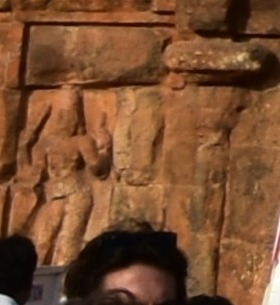
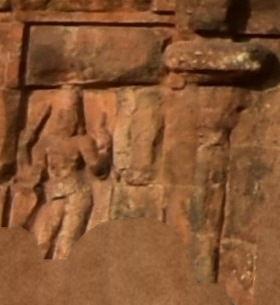
Paint out the visitors in three west-face panel photographs
Visitors, their clothes and a signboard stood in front of the wall in
the photograph the north bay's base panels are cropped from. In
west-panel-N1, N2 and N3 they are now painted over with a plain stone
colour taken from the stone just above them, with a little noise for
grain. No carving is drawn in. About 20% of N1 is covered, 6% of N2 and
1% of N3. The image sizes are unchanged, so nothing moves on the model.

CREDITS.md records the edit, and the page says so in the element's
evidence text, the photographer's source entry, the Not verified list
and the About paragraph.

Changed region(s): [[0.0, 0.7082, 0.8286, 1.0], [0.8857, 0.6787, 1.0, 1.0]]

diff --git a/index.html b/index.html
@@ -414,7 +414,7 @@ ul.nv{margin:0;padding-left:18px;display:flex;flex-direction:column;gap:7px}
           <li>ASI counts three side entrances to the court besides the gateway <a data-cite="asi"></a>, and Balasubrahmanyam three entrances in all <a data-cite="bala_composite"></a>. Three side openings are drawn, at estimated positions. The cloister shrines' positions are invented.</li>
           <li>Most sources date the present Nandi to the Nayak period <a data-cite="wiki"></a> <a data-cite="es"></a>, and an earlier Chola Nandi is unverified.</li>
           <li>The fort walls, the moat and the Maratha-period outer gate are left out. They are later than the temple <a data-cite="wiki"></a> <a data-cite="fh"></a>.</li>
-          <li>The photographs on the inner gateway are flat images, lit by the photograph's own light, and the guardians' feet are cut off at the niche floor. Which photograph belongs in which place on the base is about 75% certain, and three places on the east face have none <a data-cite="ph_maari"></a>. On the west face, three of the four niche figures come from distant photographs, so they are low in resolution, and the standing figures' height is estimated.</li>
+          <li>The photographs on the inner gateway are flat images, lit by the photograph's own light, and the guardians' feet are cut off at the niche floor. Which photograph belongs in which place on the base is about 75% certain, and three places on the east face have none <a data-cite="ph_maari"></a>. On the west face, three of the four niche figures come from distant photographs, so they are low in resolution, and the standing figures' height is estimated. Visitors stood in front of three of the west face's north base panels when they were photographed. They have been painted over with plain stone colour, so the foot of those panels shows no carving: about a fifth of the panel next to the porch, and much less of the next two.</li>
           <li>A parametric Karnata-Dravida model exists <a data-cite="karnata"></a>. No published Chola shape grammar was found, in a search that was not exhaustive.</li>
           <li>Only Chola has been researched. Whether Pallava, Pandya, Vijayanagara and Nayak are distinct enough to be separate rule sets is unchecked.</li>
         </ul>
@@ -423,7 +423,7 @@ ul.nv{margin:0;padding-left:18px;display:flex;flex-direction:column;gap:7px}
       <section class="blk">
         <h3>About this page</h3>
         <p>An idealized composite, made for learning. It is not a model of any real temple, and no specialist in temple architecture has reviewed it.</p>
-        <p>Photographs on the inner gateway: Richard Mortel, <a href="https://creativecommons.org/licenses/by/2.0/" target="_blank" rel="noopener noreferrer">CC BY 2.0</a>, and Thamizhpparithi Maari, <a href="https://creativecommons.org/licenses/by-sa/3.0/" target="_blank" rel="noopener noreferrer">CC BY-SA 3.0</a>, via Wikimedia Commons. Cropped, and the guardians cut out, for this project; the crops of Maari's photographs are shared under CC BY-SA 3.0. Full credits are in <a href="https://github.com/purplefaucet/temple_project/blob/main/assets/sculpture/CREDITS.md" target="_blank" rel="noopener noreferrer">assets/sculpture/CREDITS.md</a>.</p>
+        <p>Photographs on the inner gateway: Richard Mortel, <a href="https://creativecommons.org/licenses/by/2.0/" target="_blank" rel="noopener noreferrer">CC BY 2.0</a>, and Thamizhpparithi Maari, <a href="https://creativecommons.org/licenses/by-sa/3.0/" target="_blank" rel="noopener noreferrer">CC BY-SA 3.0</a>, via Wikimedia Commons. Cropped, the guardians cut out, and visitors standing in front of three panels painted over, for this project; the crops of Maari's photographs are shared under CC BY-SA 3.0. Full credits are in <a href="https://github.com/purplefaucet/temple_project/blob/main/assets/sculpture/CREDITS.md" target="_blank" rel="noopener noreferrer">assets/sculpture/CREDITS.md</a>.</p>
         <p>Built with Claude, an AI model made by Anthropic. Claude read the sources, wrote the rules and set the confidence figures, which are its own estimates.</p>
       </section>
     </aside>
@@ -479,7 +479,7 @@ var SRC={
  ignca_in:{n:'IGNCA, Brihadisvara temple: inner gopuram',u:'https://ignca.gov.in/brhadisvaratemple/INNER_%20GOPURAM/images/Des_IG.html',use:'A three-storeyed stone structure. Base panels of forms of Siva, left unfinished. Guardians over 16 feet. The stucco figures above are 17th-century Nayaka work.',rel:'Indira Gandhi National Centre for the Arts. No author or references on the page. Read as summaries returned by a fetch tool.'},
  ignca_out:{n:'IGNCA, Brihadisvara temple: outer gopuram',u:'https://ignca.gov.in/brhadisvaratemple/OUTER_%20GOPURAM/images/Des_Og.html',use:'Five storeys, the first three granite and the upper two brick. First-storey niches meant for stone images. Stucco figures 17th-century Nayaka work.',rel:'Indira Gandhi National Centre for the Arts. No author or references on the page. Read as summaries returned by a fetch tool.'},
  gop_photos:{n:'Photographs of both gateways on Wikimedia Commons, examined for this project',u:'https://github.com/purplefaucet/temple_project/blob/main/research/gopuram.md',use:'Storeys, pavilion rows, centre bays, roof gables, finial counts, base panels and guardians, and heights scaled to the mapped bases.',rel:'Nine photographs, listed with links in the notes. Counts and heights were read by eye by Claude for this project, with errors of about ±15 to 25% on heights and about 50% confidence on pavilion counts.'},
- ph_mortel:{n:'Richard Mortel, photographs of the Rajarajan gateway, 2017 (Wikimedia Commons, CC BY 2.0)',u:'https://commons.wikimedia.org/wiki/File:Brihadishwara_Temple,_Dedicated_to_Shiva,_built_by_Rajaraja_I,_completed_in_1010,_Thanjavur_(31)_(37237881240).jpg',use:'The two guardians of the east face, the large base panel under the south guardian, and the west face\'s niche figures and north base panels, shown as images on the model.',rel:'Photographs, licensed CC BY 2.0. Cropped, and the guardians cut out from their background, for this project. Every file, its original and its edits are listed in assets/sculpture/CREDITS.md in the repository.'},
+ ph_mortel:{n:'Richard Mortel, photographs of the Rajarajan gateway, 2017 (Wikimedia Commons, CC BY 2.0)',u:'https://commons.wikimedia.org/wiki/File:Brihadishwara_Temple,_Dedicated_to_Shiva,_built_by_Rajaraja_I,_completed_in_1010,_Thanjavur_(31)_(37237881240).jpg',use:'The two guardians of the east face, the large base panel under the south guardian, and the west face\'s niche figures and north base panels, shown as images on the model.',rel:'Photographs, licensed CC BY 2.0. Cropped, and the guardians cut out from their background, for this project. In three west-face base panels, visitors standing in front of the wall are painted over with plain stone colour. Every file, its original and its edits are listed in assets/sculpture/CREDITS.md in the repository.'},
  ph_maari:{n:'Thamizhpparithi Maari, photographs of the Rajarajan gateway\'s base, 2012 (Wikimedia Commons, CC BY-SA 3.0)',u:'https://commons.wikimedia.org/wiki/File:%22A_collection_of_details_on_the_Rajarajan_Entrance_of_The_Big_Temple%22.JPG',use:'The base panels of the east face and of the west face\'s south bay, shown as images on the model.',rel:'Photographs, licensed CC BY-SA 3.0. Cropped for this project; the crops are shared under CC BY-SA 3.0. Every file, its original and its edits are listed in assets/sculpture/CREDITS.md in the repository.'},
  man32:{n:'Manasara, chapter 32, The attendant deities',u:'https://www.wisdomlib.org/hinduism/book/manasara-english-translation/d/doc421079.html',use:'The bull\'s shrine in the east, made like a pavilion. The bali altar toward the gateway.',rel:MANREL},
  man33:{n:'Manasara, chapter 33, The gate-houses',u:'https://www.wisdomlib.org/hinduism/book/manasara-english-translation/d/doc421080.html',use:'More storeys for gateways further out. Length 1¼ to 2 times the width.',rel:MANREL},
@@ -1602,7 +1602,7 @@ function buildCourt(W,upH,adH,padH){
       {src:['ph_mortel','es','gop_photos'],conf:75,basis:'Buildings (photographs)',gram:'West face → Outer bay → Niche figure · Porch → Upper niche → Seated figure',
        dims:[['Appearance',B,'photographs of the figures [@ph_mortel]'],['Height',E,'standing figures about 3.6 m, seated about 1.3 m, estimated'],['Depth',E,'none: flat images']]})],
      [wp,mk('rr-photo-west-panels','Rajarajan gateway, west-face base panels (photographs)','rule',
-      'The relief panels along the base of the court side, four in each outer bay, numbered from the porch outward. The south bay\'s panels hold two or three rows of small scenes, like the east face, and one row looks unfinished; they are photographs by Thamizhpparithi Maari [@ph_maari]. The north bay\'s hold one row of large figures, and its outermost unit is plain stone; they are photographs by Richard Mortel [@ph_mortel], with a visitor\'s head hiding part of one. Laid at their photographed proportions, the south panels fill the bay at about 2.2 m high, which matches the base\'s height estimated separately. Which bay is which is about 85% certain.',
+      'The relief panels along the base of the court side, four in each outer bay, numbered from the porch outward. The south bay\'s panels hold two or three rows of small scenes, like the east face, and one row looks unfinished; they are photographs by Thamizhpparithi Maari [@ph_maari]. The north bay\'s hold one row of large figures, and its outermost unit is plain stone; they are photographs by Richard Mortel [@ph_mortel]. Visitors stood in front of three of them when they were photographed. Those people are painted over with plain stone colour, so the foot of those panels shows no carving, most of all in the panel next to the porch. Laid at their photographed proportions, the south panels fill the bay at about 2.2 m high, which matches the base\'s height estimated separately. Which bay is which is about 85% certain.',
       {src:['ph_maari','ph_mortel','gop_photos'],conf:75,basis:'Buildings (photographs)',gram:'West face → Base → Unit×4 per bay (photograph)',
        dims:[['Appearance',B,'photographs of the panels [@ph_maari][@ph_mortel]'],['Proportions',B,'from the photographs'],['Placement',E,'about 85% certain']]})]].forEach(function(e){
       var meta=e[1]; meta.noMerge=true;

diff --git a/assets/sculpture/CREDITS.md b/assets/sculpture/CREDITS.md
@@ -178,7 +178,9 @@ The three small files are left at the source's own resolution, not enlarged, so 
 
 ### Base panels (JPG)
 
-**Edits to every panel file:** cropped to the panel's frame and saved as JPEG (quality 90 for S, 92 for N). Nothing else was changed, and nothing was scaled.
+**Edits to every panel file:** cropped to the panel's frame and saved as JPEG (quality 90 for S, 92 for N). Nothing was scaled.
+
+**One further edit, 16 November 2026, to `west-panel-N1.jpg`, `west-panel-N2.jpg` and `west-panel-N3.jpg`:** visitors, their clothes and a signboard, which stood in front of the wall in Mortel (42), were painted over with a plain stone colour taken from the stone just above them, plus a little noise for grain. No carving was drawn in, so those areas show nothing of what is behind the people. The share of each image painted: N1 about 20%, N2 about 6%, N3 about 1%. The files were saved again at quality 93. The other west-face panels are unchanged.
 
 | File | Position | Source | Region of the original (x, y, w, h) | Notes |
 |---|---|---|---|---|
@@ -186,9 +188,9 @@ The three small files are left at the source's own resolution, not enlarged, so 
 | `west-panel-S2.jpg` (488 × 740) | S2 | same | 672, 448, 488, 740 | The bottom row is only roughed out, apparently unfinished. |
 | `west-panel-S3.jpg` (608 × 760) | S3, the widest | same | 1282, 460, 608, 760 | Three rows plus a strip of small figures at the foot. |
 | `west-panel-S4.jpg` (178 × 440) | S4, the narrow strip at the outer end | same | 1982, 720, 178, 440 | The photo is slightly oblique here. |
-| `west-panel-N1.jpg` (280 × 305) | N1, next to the porch | Mortel (42), as above | 1145, 3230, 280, 305 | Standing figures. **The lower right is hidden behind a visitor's head.** |
-| `west-panel-N2.jpg` (245 × 305) | N2 | same | 905, 3230, 245, 305 | A figure with arms raised. The bottom right corner is slightly obstructed. |
-| `west-panel-N3.jpg` (285 × 305) | N3 | same | 620, 3230, 285, 305 | A large standing figure with smaller figures beside it. |
+| `west-panel-N1.jpg` (280 × 305) | N1, next to the porch | Mortel (42), as above | 1145, 3230, 280, 305 | Standing figures. Visitors' heads hid the foot of the panel and its right edge; that area is painted over (see the edit above). |
+| `west-panel-N2.jpg` (245 × 305) | N2 | same | 905, 3230, 245, 305 | A figure with arms raised. A person and a signboard hid the bottom right corner; painted over. |
+| `west-panel-N3.jpg` (285 × 305) | N3 | same | 620, 3230, 285, 305 | A large standing figure with smaller figures beside it. The top of a head at the bottom edge is painted over. |
 | `west-panel-N4.jpg` (115 × 305) | N4, the outer end | same | 500, 3230, 115, 305 | Plain, uncarved blocks |
 
 - **Why S1–S4 are named as the south half (about 85%).** The close view's four units match, in width order and row pattern, the four south-bay units in the frontal view PH2. The north bay looks different.
